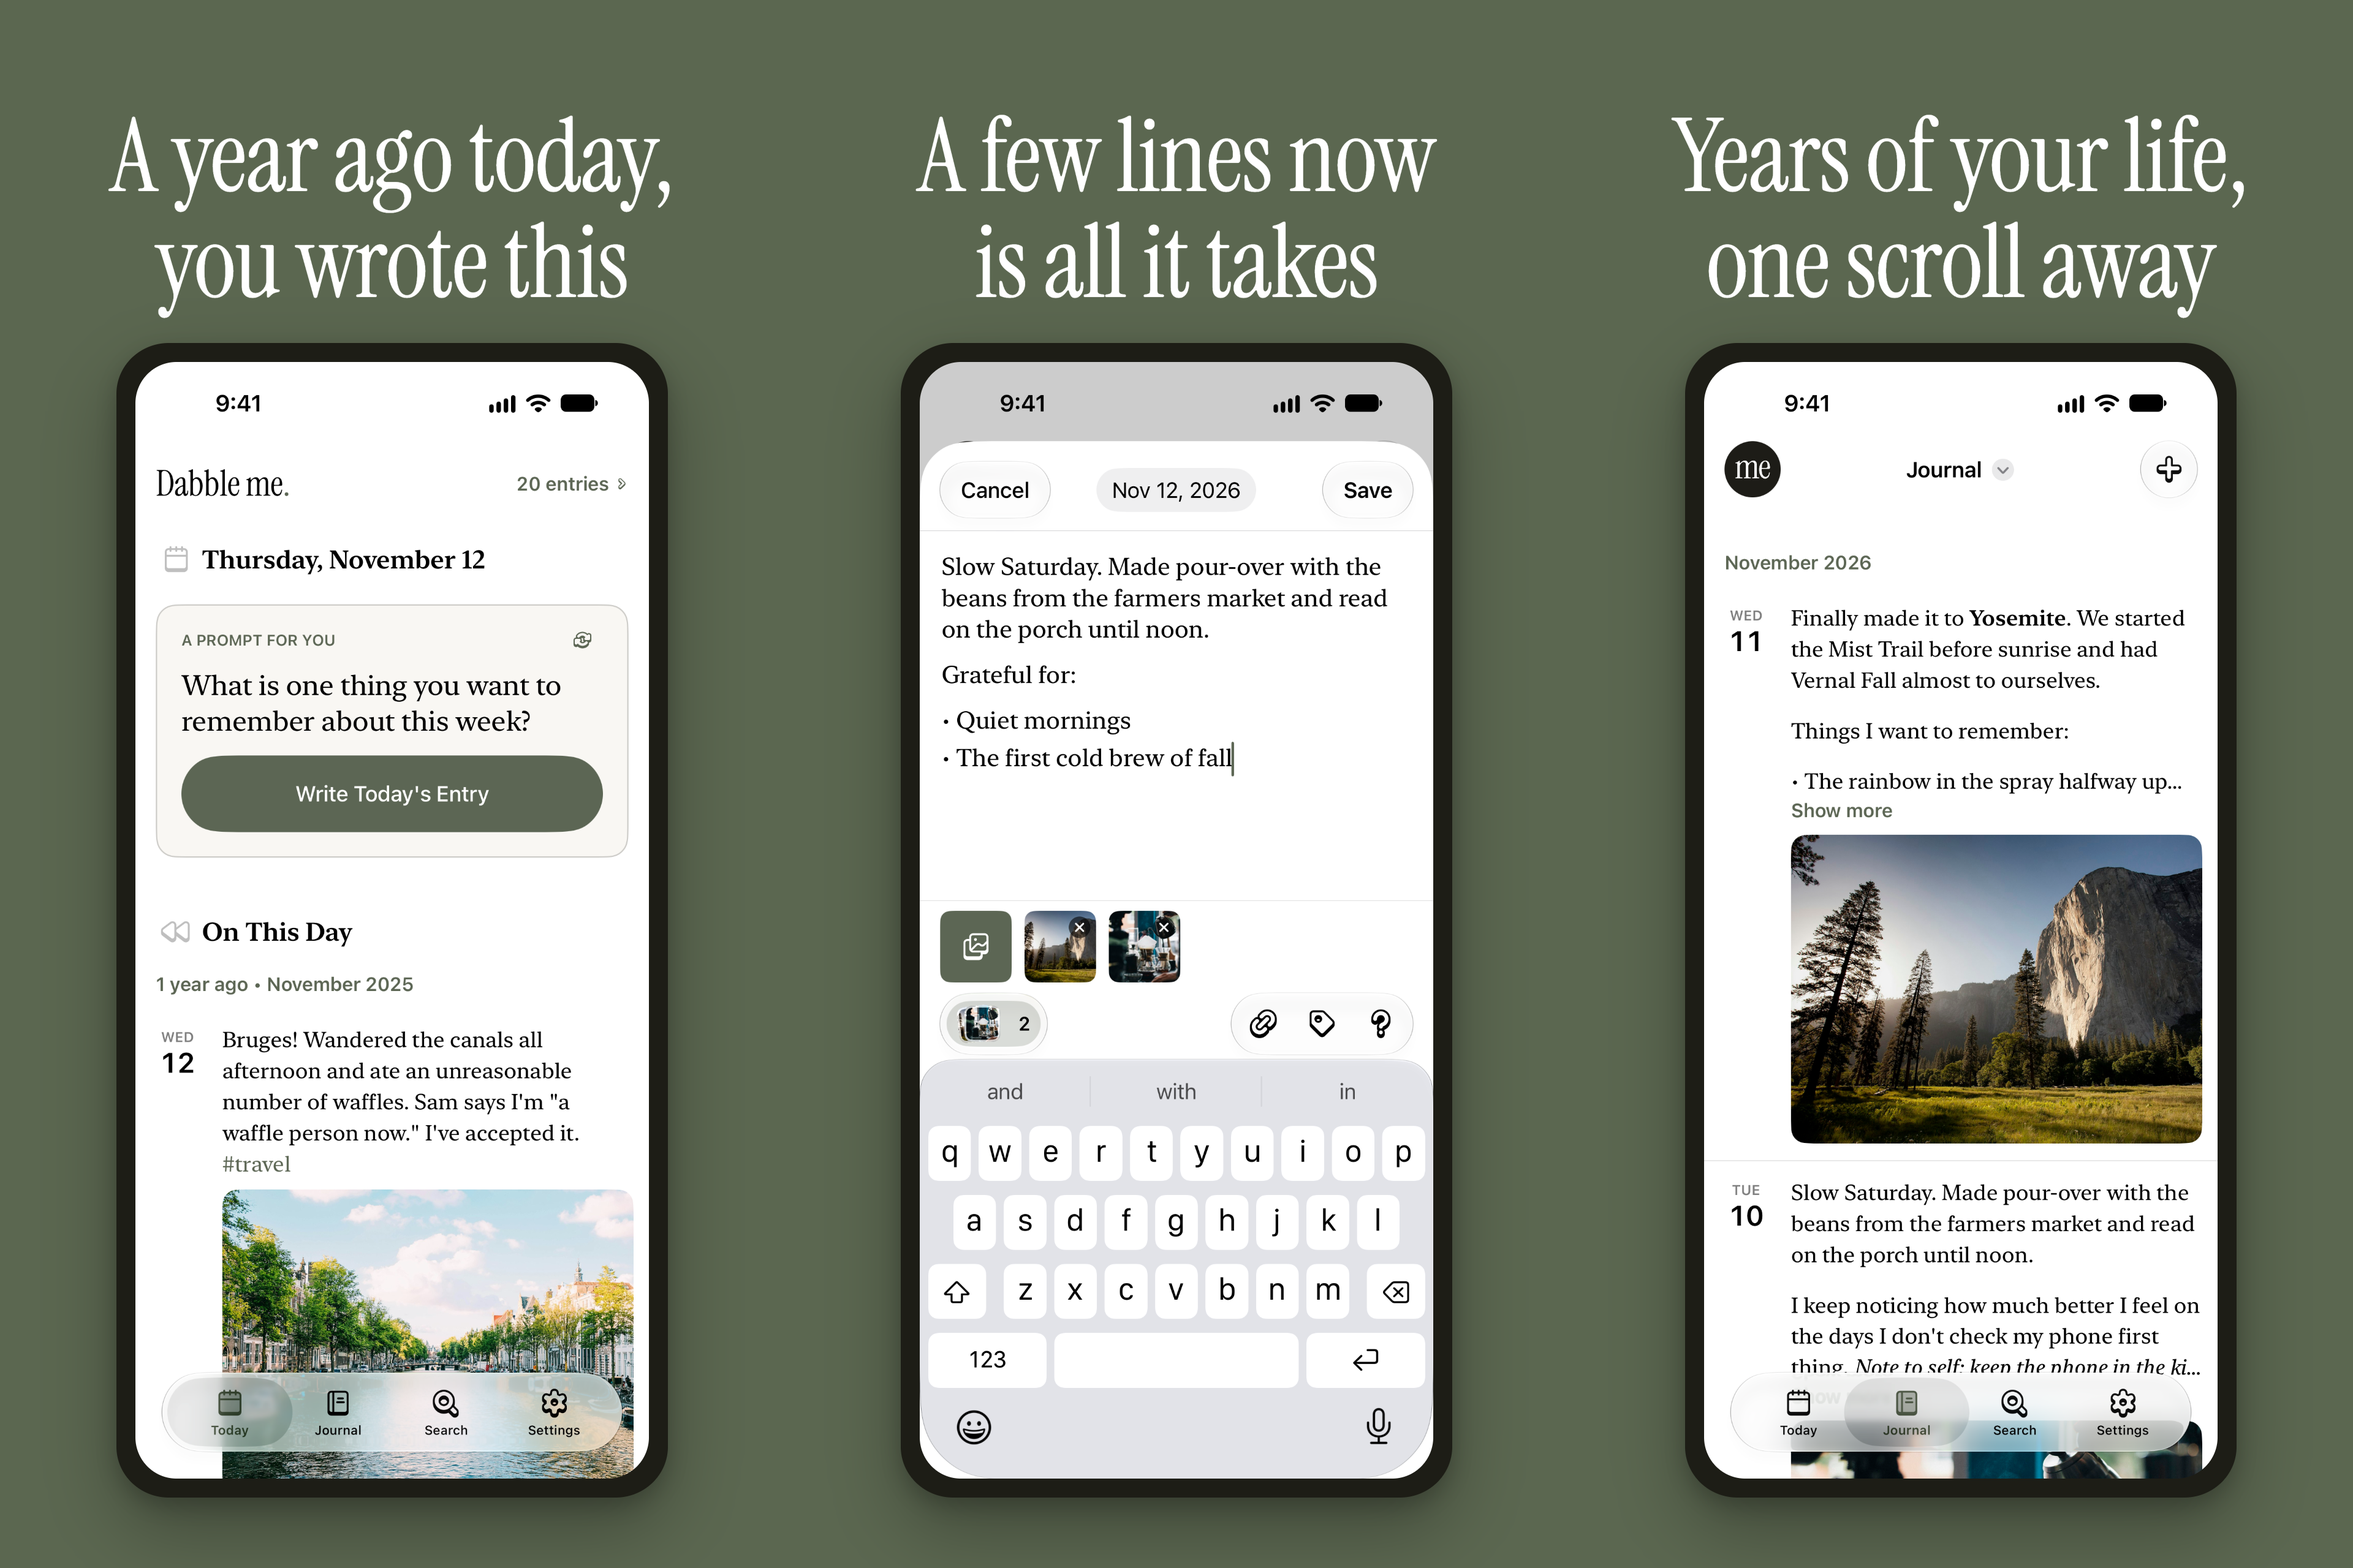
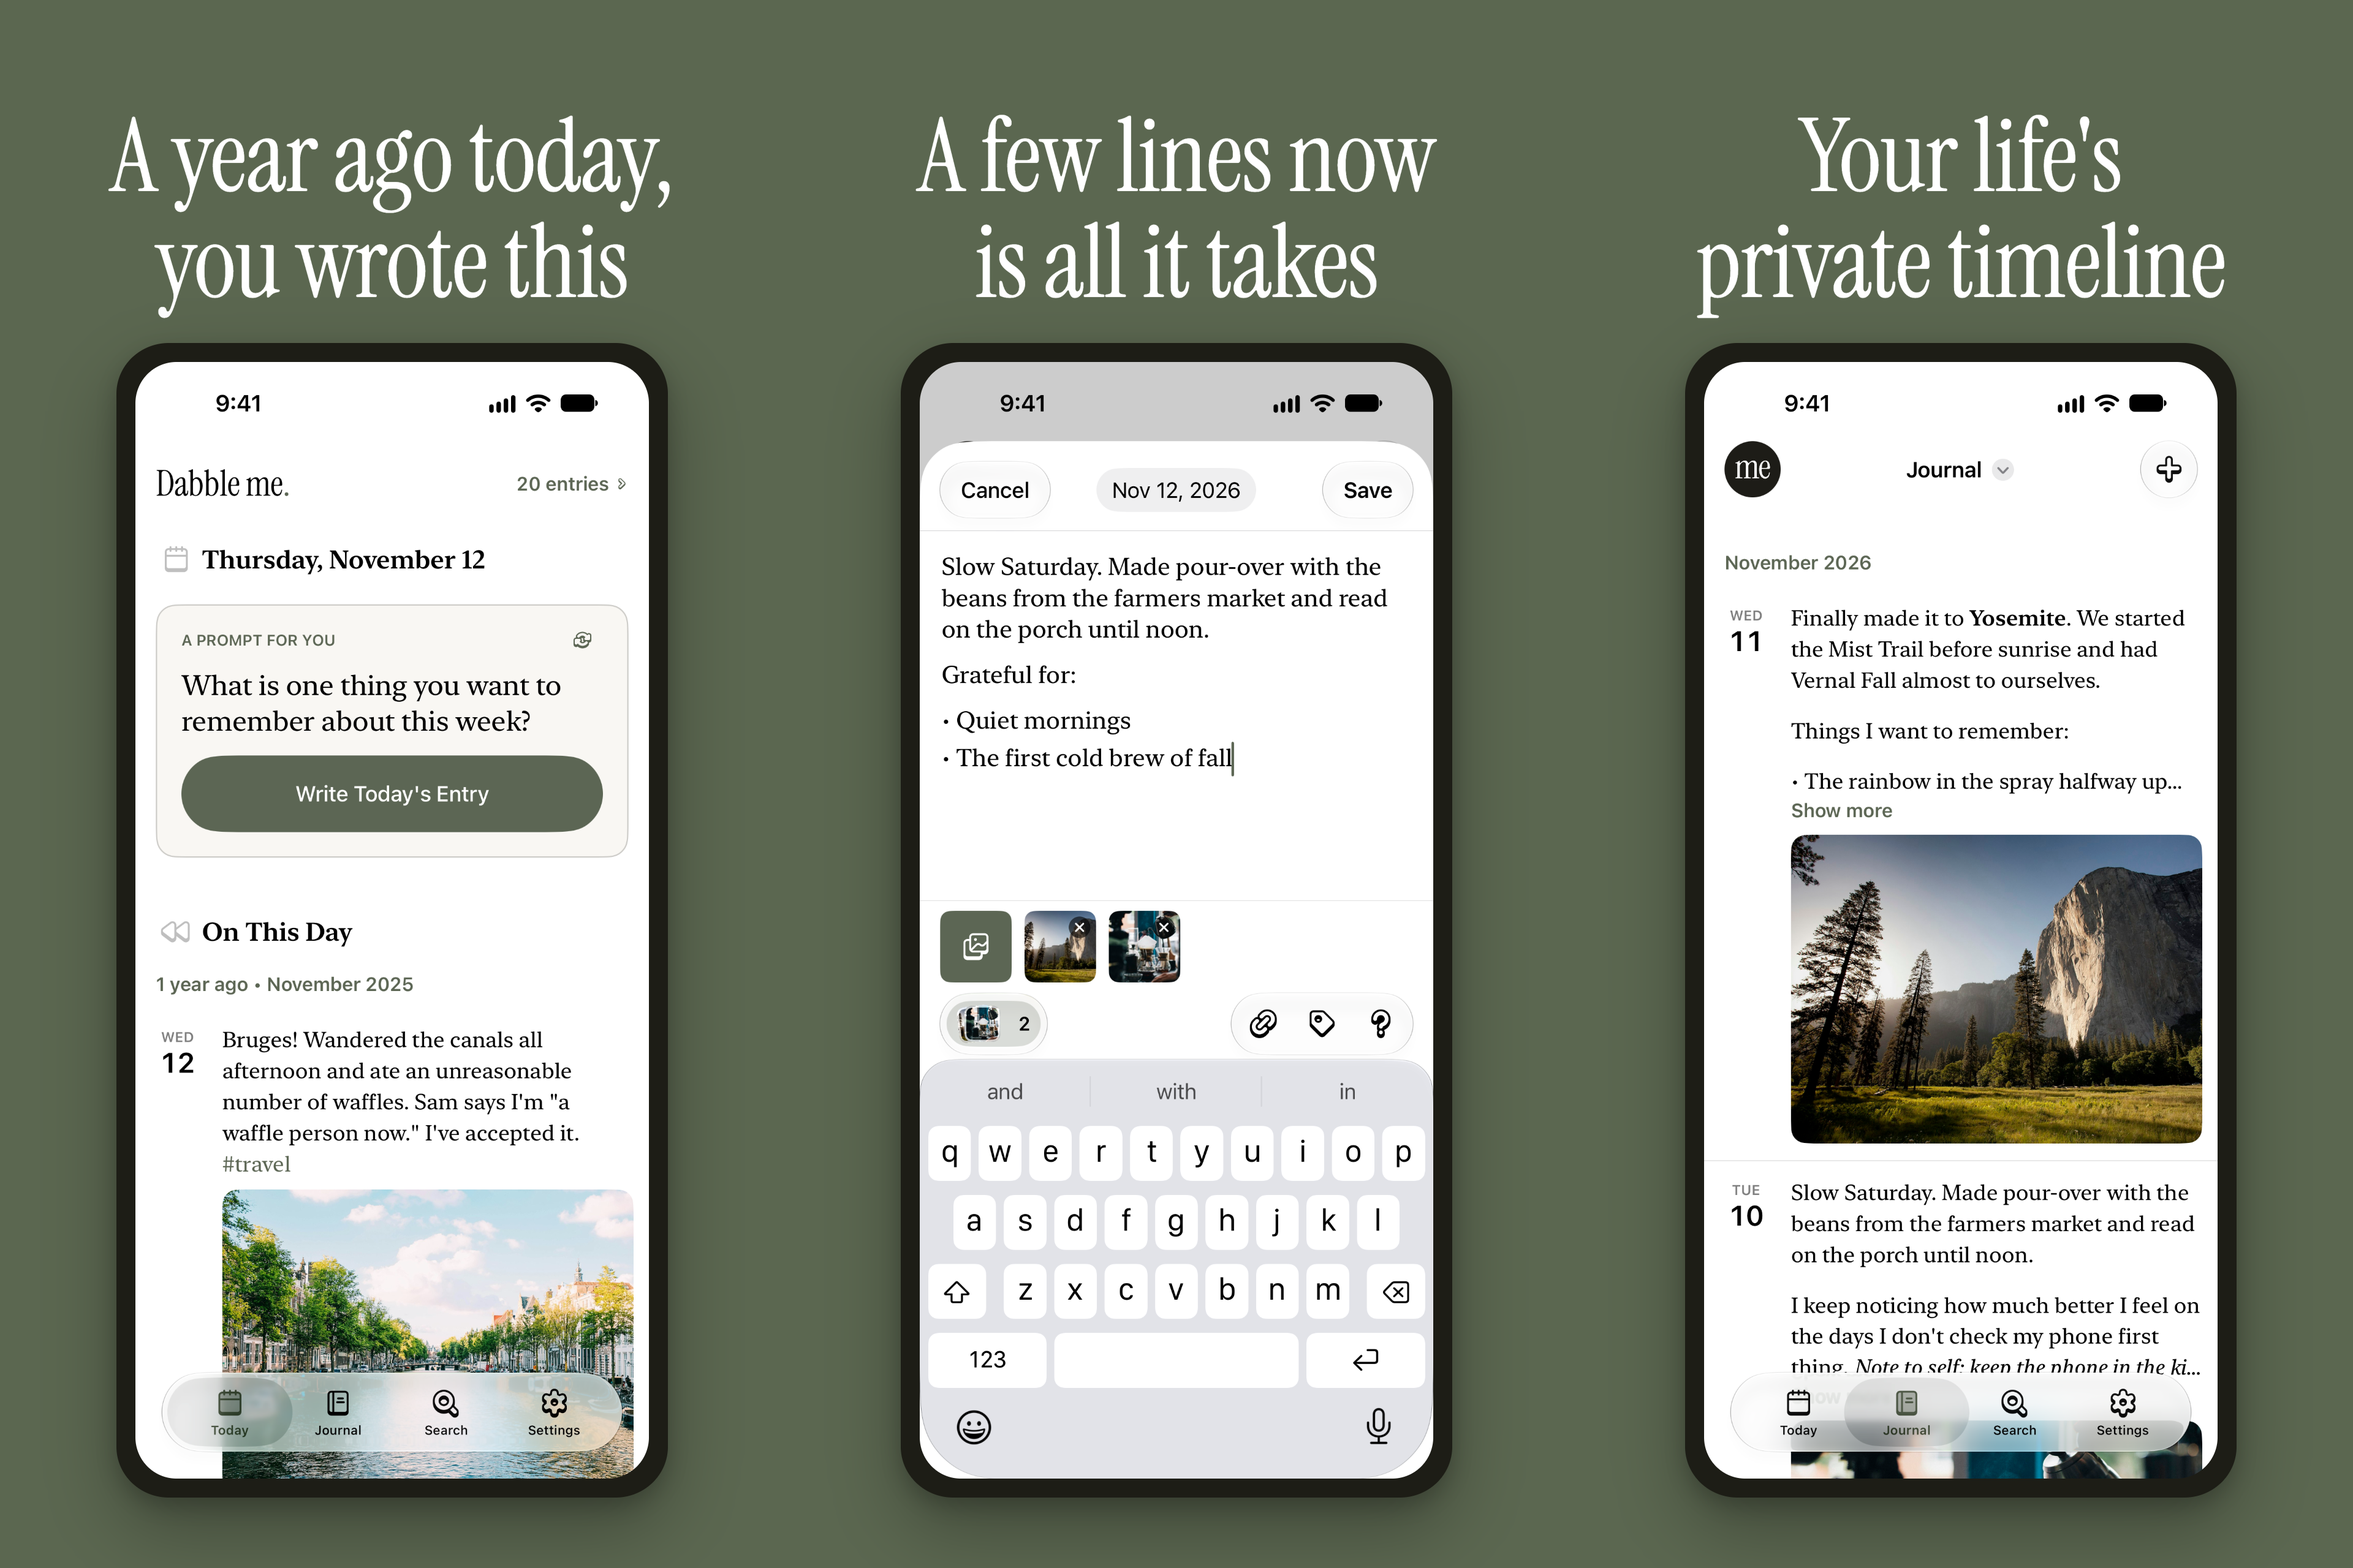
App Store header and search images: rewind in the header, a private timeline in search

Changed region(s): [[0.7188, 0.0625, 0.9688, 0.2188]]

diff --git a/ios/AppStore/Screenshots/Header and Search Results/source/header.html b/ios/AppStore/Screenshots/Header and Search Results/source/header.html
@@ -11,7 +11,7 @@ body { width: 3840px; height: 1646px; background: linear-gradient(180deg, #f7f5f
 .wordmark .dot { color: var(--olive); }
 h1 { font-size: 204px; line-height: 1.04; color: var(--ink); margin-top: 64px; }
 h1 em { color: var(--olive); font-style: italic; }
-p { font-size: 62px; line-height: 1.4; color: #4a4a42; margin-top: 72px; max-width: 1080px; }
+p { font-size: 62px; line-height: 1.4; color: #4a4a42; margin-top: 72px; max-width: 1240px; }
 .stage { position: absolute; left: 0; top: 0; width: 3840px; height: 1646px; perspective: 5200px; }
 /* (The bezel in px: a percentage would be of the whole stage's width here.) */
 .phone.inner { width: 700px; top: 220px; padding: 52px; z-index: 2; }
@@ -30,6 +30,6 @@ p { font-size: 62px; line-height: 1.4; color: #4a4a42; margin-top: 72px; max-wid
 <div class="copy">
   <div class="wordmark serif">Dabble me<span class="dot">.</span></div>
   <h1 class="serif">Your life,<br>written down<br><em>and remembered.</em></h1>
-  <p class="sans">Write a few lines today. See them again on this day, every year.</p>
+  <p class="sans">Write a few lines today,<br>then rewind to them years from now.</p>
 </div>
 </body></html>

diff --git a/ios/AppStore/Screenshots/Header and Search Results/source/search.html b/ios/AppStore/Screenshots/Header and Search Results/source/search.html
@@ -9,5 +9,5 @@ body { width: 3840px; height: 2560px; background: var(--olive); position: relati
 </style></head><body>
 <div class="col" style="left:0"><h2 class="serif">A year ago today,<br>you wrote this</h2><div class="phone"><img src="TODAY"></div></div>
 <div class="col" style="left:1280px"><h2 class="serif">A few lines now<br>is all it takes</h2><div class="phone"><img src="WRITE"></div></div>
-<div class="col" style="left:2560px"><h2 class="serif">Years of your life,<br>one scroll away</h2><div class="phone"><img src="JOURNAL"></div></div>
+<div class="col" style="left:2560px"><h2 class="serif">Your life's<br>private timeline</h2><div class="phone"><img src="JOURNAL"></div></div>
 </body></html>

diff --git a/ios/AppStore/metadata.md b/ios/AppStore/metadata.md
@@ -161,8 +161,8 @@ In `ios/AppStore/Screenshots/` (`iPhone 6.3in`, `iPad 13in`, and the header and 
 
 **Header and search-results images** (`Header and Search Results/`, rendered by `source/render.sh` from the iPhone screenshots):
 
-- Header (3840 × 1646): the wordmark, "Your life, written down and remembered." and "Write a few lines today. See them again on this day, every year." in the centre, with phones either side. iPhone shows about the middle four fifths of its width, under the back and share buttons at the top corners, so nothing that matters sits outside that.
-- Search results (3840 × 2560): Today under "A year ago today, you wrote this", Write under "A few lines now is all it takes", Journal under "Years of your life, one scroll away".
+- Header (3840 × 1646): the wordmark, "Your life, written down and remembered." and "Write a few lines today, then rewind to them years from now." in the centre, with phones either side. iPhone shows about the middle four fifths of its width, under the back and share buttons at the top corners, so nothing that matters sits outside that.
+- Search results (3840 × 2560): Today under "A year ago today, you wrote this", Write under "A few lines now is all it takes", Journal under "Your life's private timeline".
 
 ## Decisions
 
